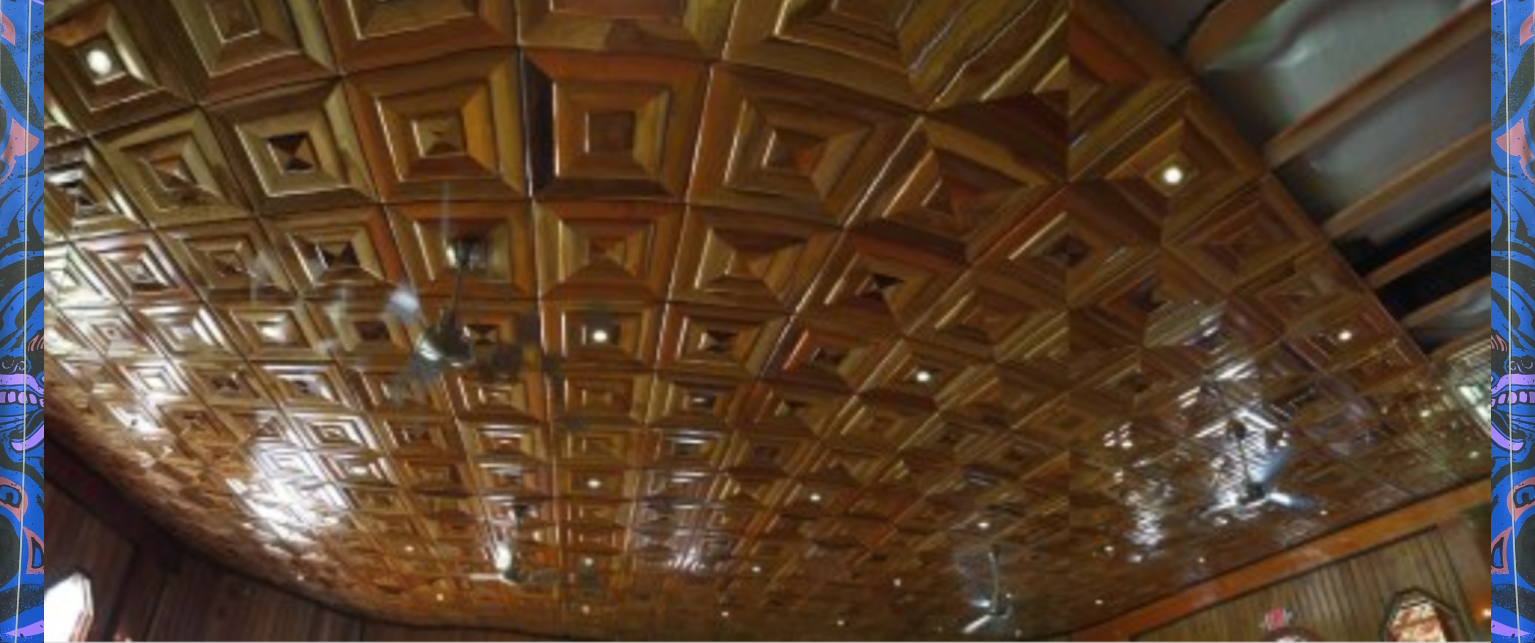
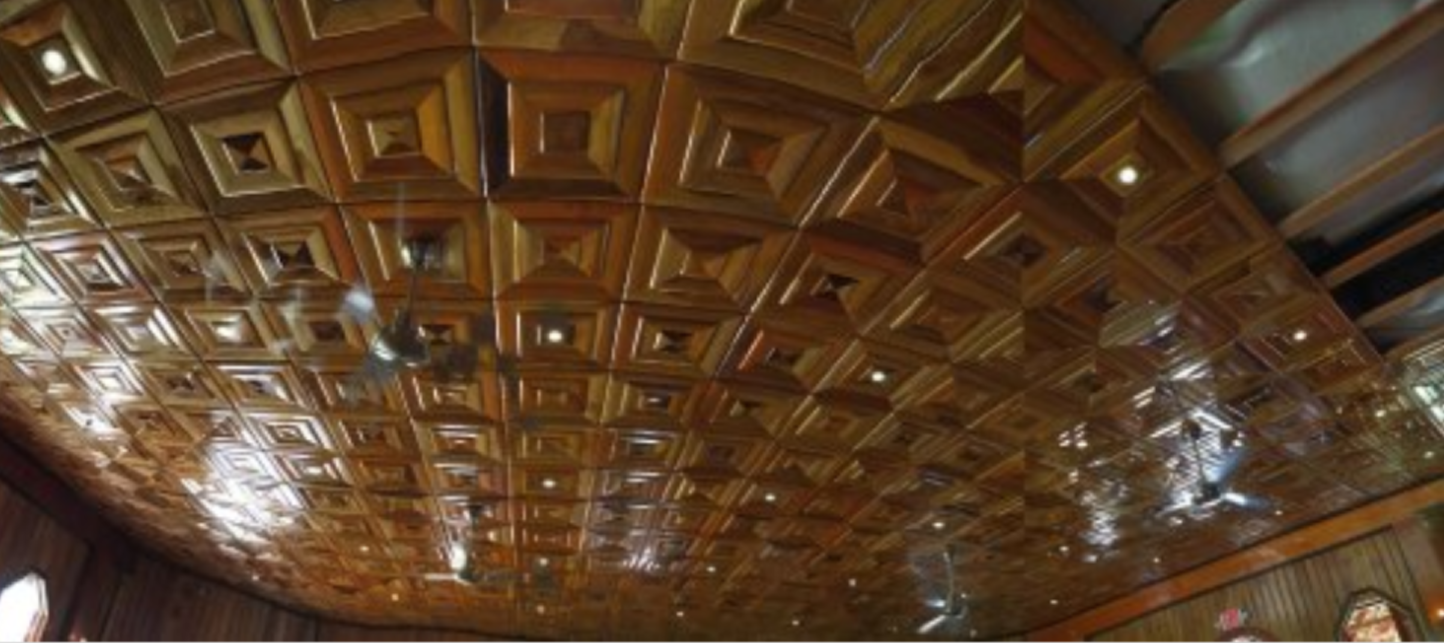
testing image resizing css on mobile devices

diff --git a/spiceFarm.html b/spiceFarm.html
@@ -50,37 +50,37 @@
 <div class="slideshow-container"> 
         <div class="mySlides fade">
           <div class="numbertext">1 / 6</div>
-          <img class="slideImage" src="images/spiceFarm/spiceFarm1.png"> <!-- you could do "style=width:100% if you want"--> 
+          <img class="slideImage" src="images/spiceFarm/spiceFarm1.png"style="min-width:1000px; max-width:1136px"> <!-- you could do "style=width:100% if you want"--> 
           <div class="text">Stroll amongst the birds of paradise</div>
         </div>
         
         <div class="mySlides fade">
           <div class="numbertext">2 / 6</div>
-          <img class="slideImage" src="images/spiceFarm/spiceFarm2.png" >
+          <img class="slideImage" src="images/spiceFarm/spiceFarm2.png"width = 1000px style="min-width:1000px; max-width:1000px" >
           <div class="text">The Mayans used cocoa beans as currency. Imagine how much money you can consume</div>
         </div>
         
         <div class="mySlides fade">
           <div class="numbertext">3 / 6</div>
-          <img class="slideImage" src="images/spiceFarm/spiceFarm3.png"  >
+          <img class="slideImage" src="images/spiceFarm/spiceFarm3.png" style="min-width:1126px; max-height: 643px; "  >
           <div class="text">Authentic Belizian dishes made with the natural tropical spices</div>
         </div>
 
         <div class="mySlides fade">
                 <div class="numbertext">4 / 6</div>
-                <img class="slideImage" src="images/spiceFarm/spiceFarm4.png"  >
+                <img class="slideImage" src="images/spiceFarm/spiceFarm4.png" width = 974px style="min-width:974px; max-width:974px" >
                 <div class="text">Stroll among the tropical foliage or ride in style. It's your choice</div>
               </div>
 
               <div class="mySlides fade">
                 <div class="numbertext">5 / 6</div>
-                    <img class="slideImage" src="images/spiceFarm/spiceFarm5.png"  >
+                    <img class="slideImage" src="images/spiceFarm/spiceFarm5.png" width = 988px style="min-width:988px; max-width:988px" >
                 <div class="text">You can still enjoy the view and smell the flowers from inside</div>
               </div>
     
               <div class="mySlides fade">
                     <div class="numbertext">6 / 6</div>
-                        <img class="slideImage" src="images/spiceFarm/spiceFarm6.png"  >
+                        <img class="slideImage" src="images/spiceFarm/spiceFarm6.png" height=643px style="min-width:1000px; max-width: 1444px; "  >
                     <div class="text">Belize initially became a colony through logging. The ceiling showcases Mahogany, Sapodilla, Belizian Rosewood, and others </div>
                   </div>
 
